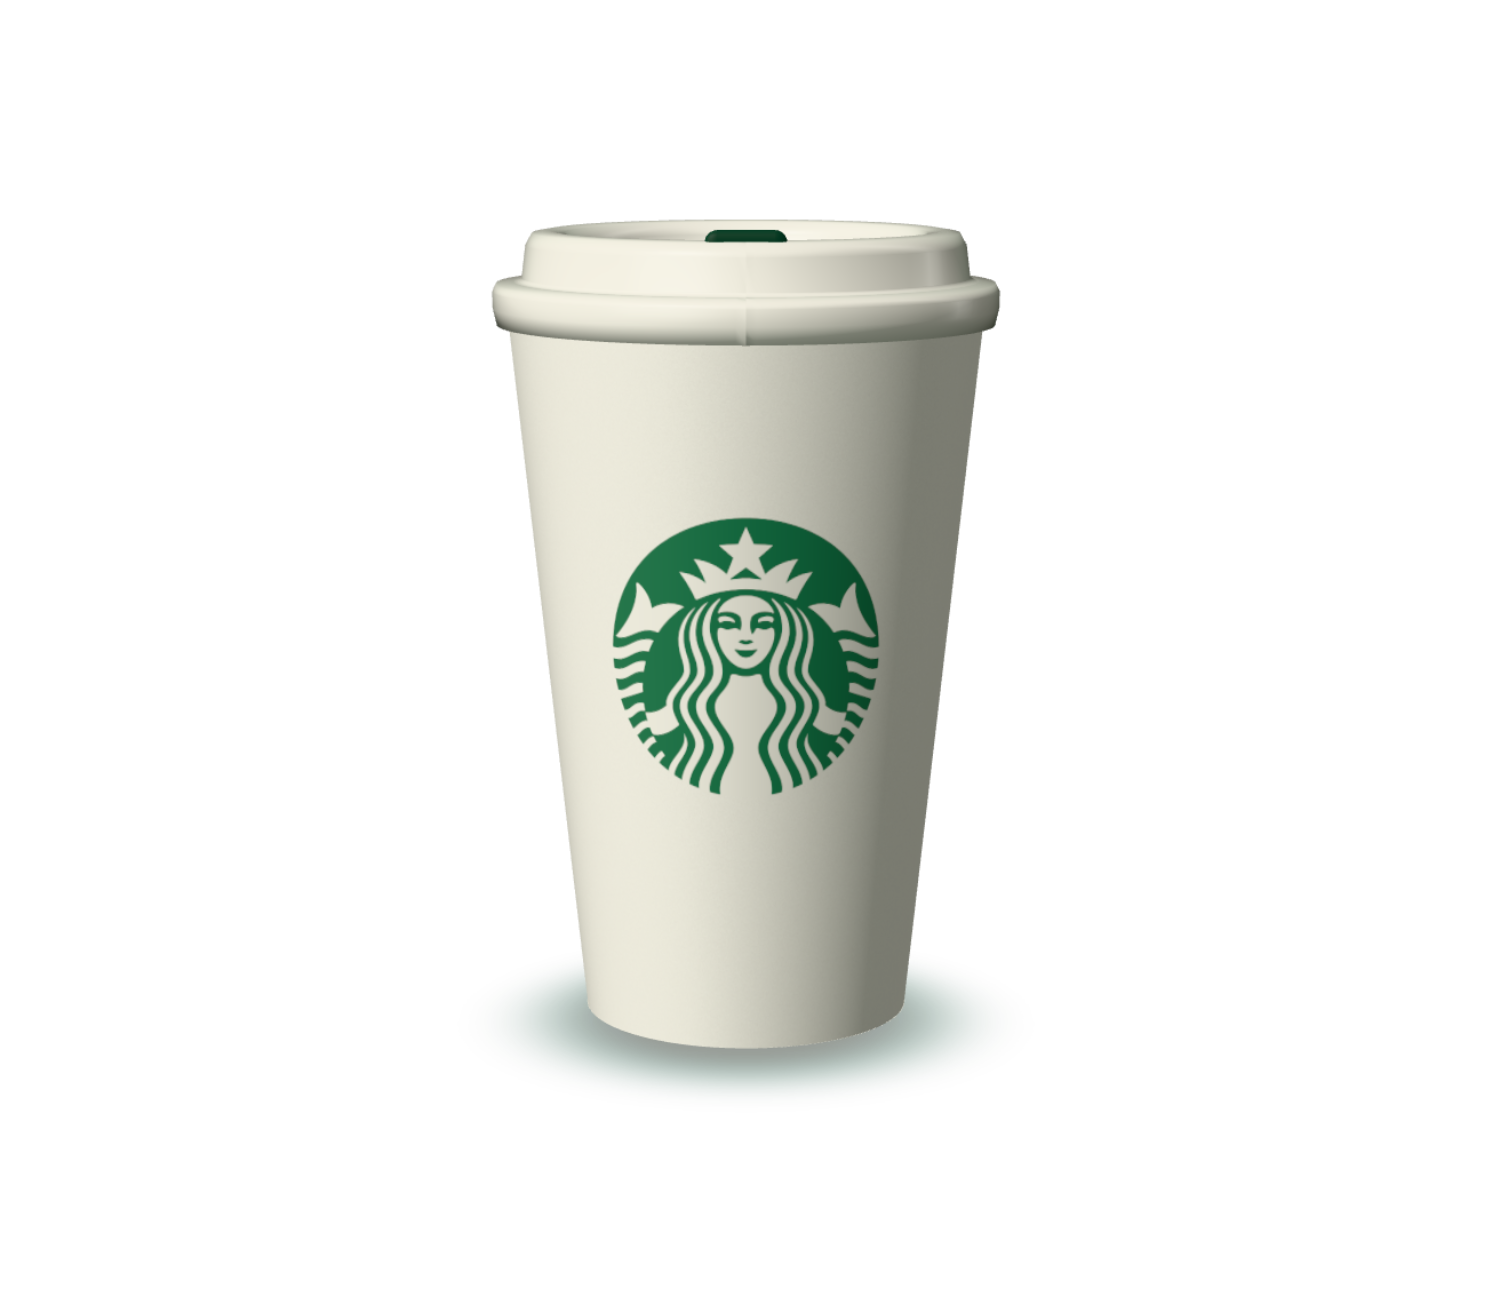
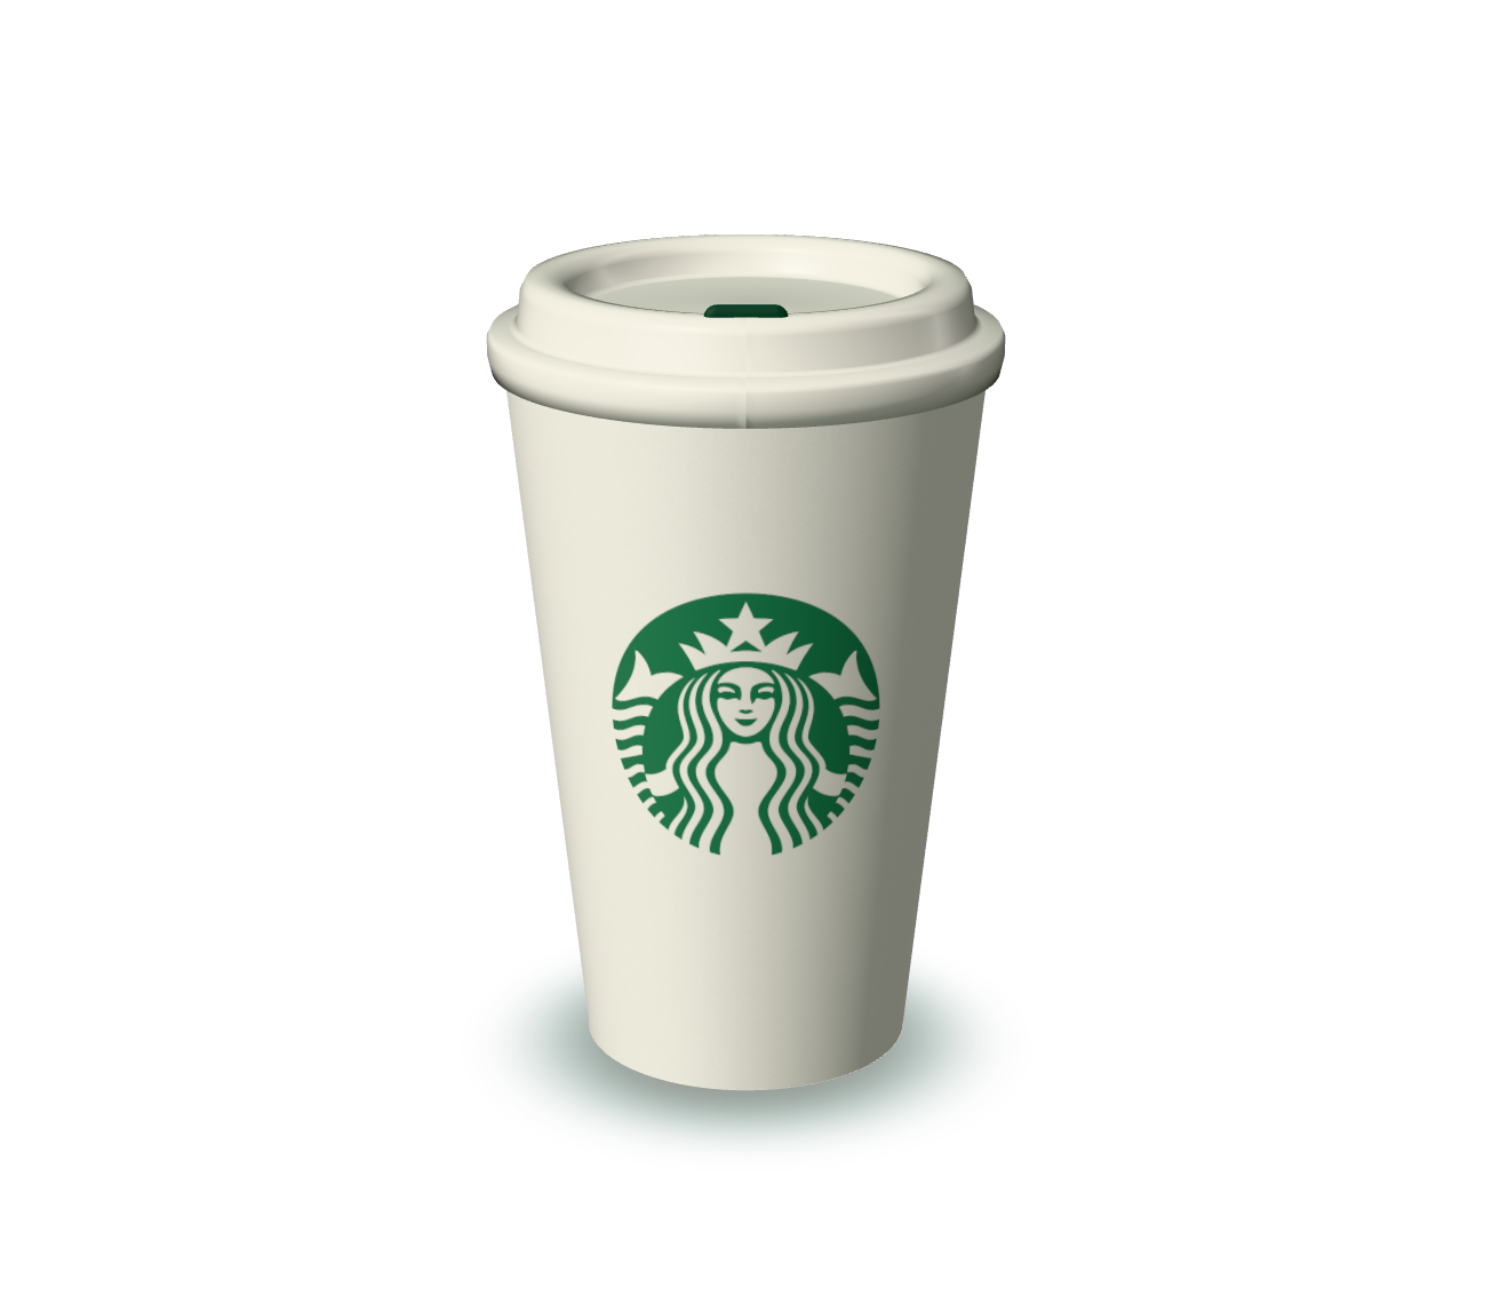
fix(3d): brushed-steel sleeve in palette, higher inspect camera, visible coffee

diff --git a/src/components/three/CupScene.tsx b/src/components/three/CupScene.tsx
@@ -68,7 +68,7 @@ function Cup({ lidOpen }: { lidOpen: boolean }) {
       base: baseGeometry(),
       rim: rimGeometry(),
       lid: lidGeometry(),
-      coffee: new THREE.CircleGeometry(CUP.rTop - 0.07, 96),
+      coffee: new THREE.CircleGeometry(CUP.rTop - 0.035, 96),
       sip: new THREE.CapsuleGeometry(0.045, 0.2, 6, 16),
     }),
     [],
@@ -77,9 +77,9 @@ function Cup({ lidOpen }: { lidOpen: boolean }) {
   useFrame((_, dt) => {
     if (!lid.current) return;
     const g = lid.current;
-    g.position.y = damp(g.position.y, lidOpen ? CUP.h + 1.05 : CUP.h, 5, dt);
+    g.position.y = damp(g.position.y, lidOpen ? CUP.h + 0.7 : CUP.h, 5, dt);
     g.rotation.x = damp(g.rotation.x, lidOpen ? -0.32 : 0, 5, dt);
-    g.position.z = damp(g.position.z, lidOpen ? -0.25 : 0, 5, dt);
+    g.position.z = damp(g.position.z, lidOpen ? -0.55 : 0, 5, dt);
   });
 
   return (
@@ -105,7 +105,7 @@ function Cup({ lidOpen }: { lidOpen: boolean }) {
         <meshPhysicalMaterial color={COLOR.cream} roughness={0.5} />
       </mesh>
       {/* the coffee, seen when the lid lifts: deep green, glossy */}
-      <mesh geometry={geo.coffee} position={[0, CUP.h - 0.2, 0]} rotation={[-Math.PI / 2, 0, 0]}>
+      <mesh geometry={geo.coffee} position={[0, CUP.h - 0.1, 0]} rotation={[-Math.PI / 2, 0, 0]}>
         <meshPhysicalMaterial color={COLOR.deep} roughness={0.18} clearcoat={1} clearcoatRoughness={0.1} />
       </mesh>
 
@@ -152,20 +152,22 @@ function Sleeve({ on }: { on: boolean }) {
           key={tex ? 'printed' : 'blank'}
           map={tex ?? undefined}
           color={tex ? '#ffffff' : COLOR.steel}
-          metalness={1}
-          roughness={0.3}
+          metalness={0.55}
+          roughness={0.32}
+          clearcoat={0.35}
+          clearcoatRoughness={0.25}
           anisotropy={0.7}
           anisotropyRotation={Math.PI / 2}
         />
       </mesh>
       <mesh geometry={geo.inner}>
-        <meshStandardMaterial color={COLOR.steel} metalness={1} roughness={0.35} side={THREE.BackSide} />
+        <meshStandardMaterial color={COLOR.steel} metalness={0.5} roughness={0.4} side={THREE.BackSide} />
       </mesh>
       <mesh geometry={geo.lip} position={[0, SLEEVE.h, 0]} rotation={[Math.PI / 2, 0, 0]}>
-        <meshStandardMaterial color={COLOR.steel} metalness={1} roughness={0.22} />
+        <meshStandardMaterial color={COLOR.steel} metalness={0.6} roughness={0.22} />
       </mesh>
       <mesh geometry={geo.base} rotation={[Math.PI / 2, 0, 0]}>
-        <meshStandardMaterial color={COLOR.steel} metalness={1} roughness={0.35} />
+        <meshStandardMaterial color={COLOR.steel} metalness={0.5} roughness={0.35} />
       </mesh>
     </group>
   );
@@ -281,9 +283,9 @@ export default function CupScene(props: CupSceneProps) {
       frameloop={active ? 'always' : 'never'}
       dpr={[1, 1.75]}
       shadows
-      camera={hero ? { fov: 25, position: [0, 3.9, 11.4] } : { fov: 24, position: [0, 3.6, 11.5] }}
+      camera={hero ? { fov: 25, position: [0, 3.9, 11.4] } : { fov: 24, position: [0, 5.2, 11] }}
       gl={{ antialias: true, alpha: true, toneMapping: THREE.NeutralToneMapping, powerPreference: 'high-performance' }}
-      onCreated={({ camera }) => camera.lookAt(0, hero ? 1.45 : 1.4, 0)}
+      onCreated={({ camera }) => camera.lookAt(0, hero ? 1.45 : 1.55, 0)}
     >
       <ambientLight intensity={0.45} color={COLOR.cream} />
       <directionalLight
